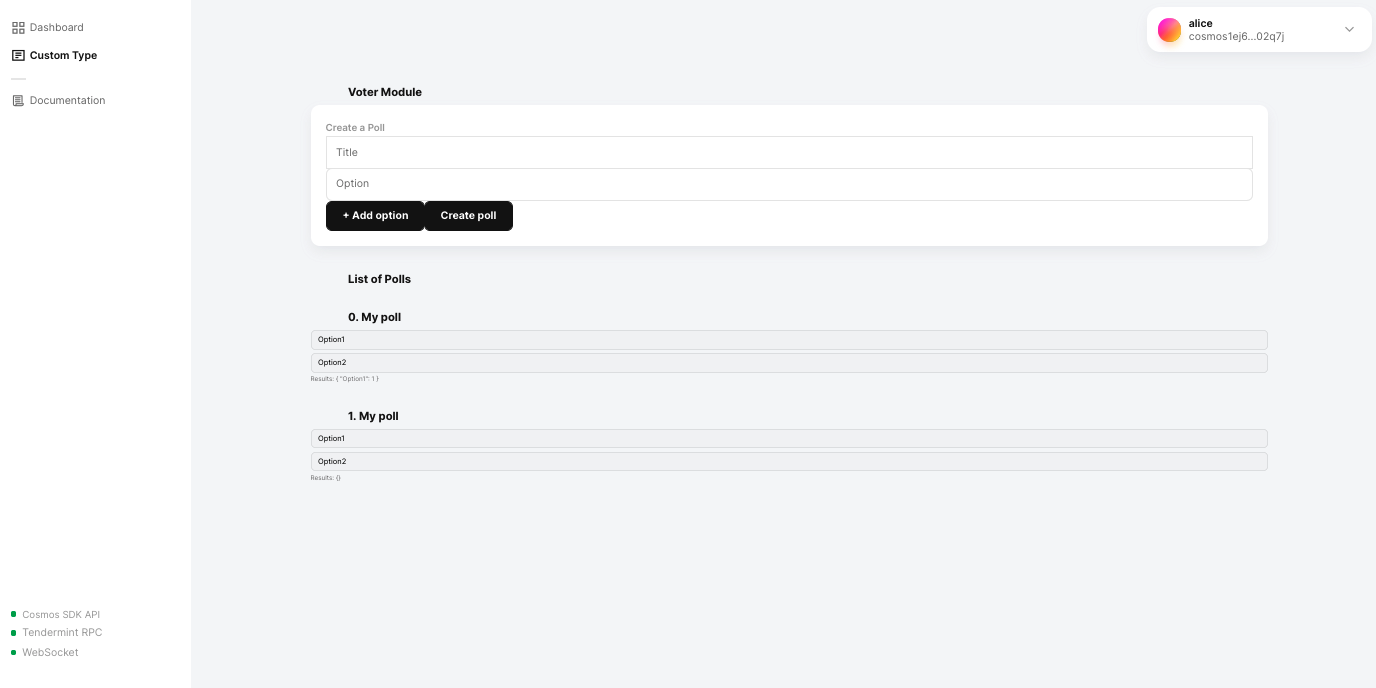
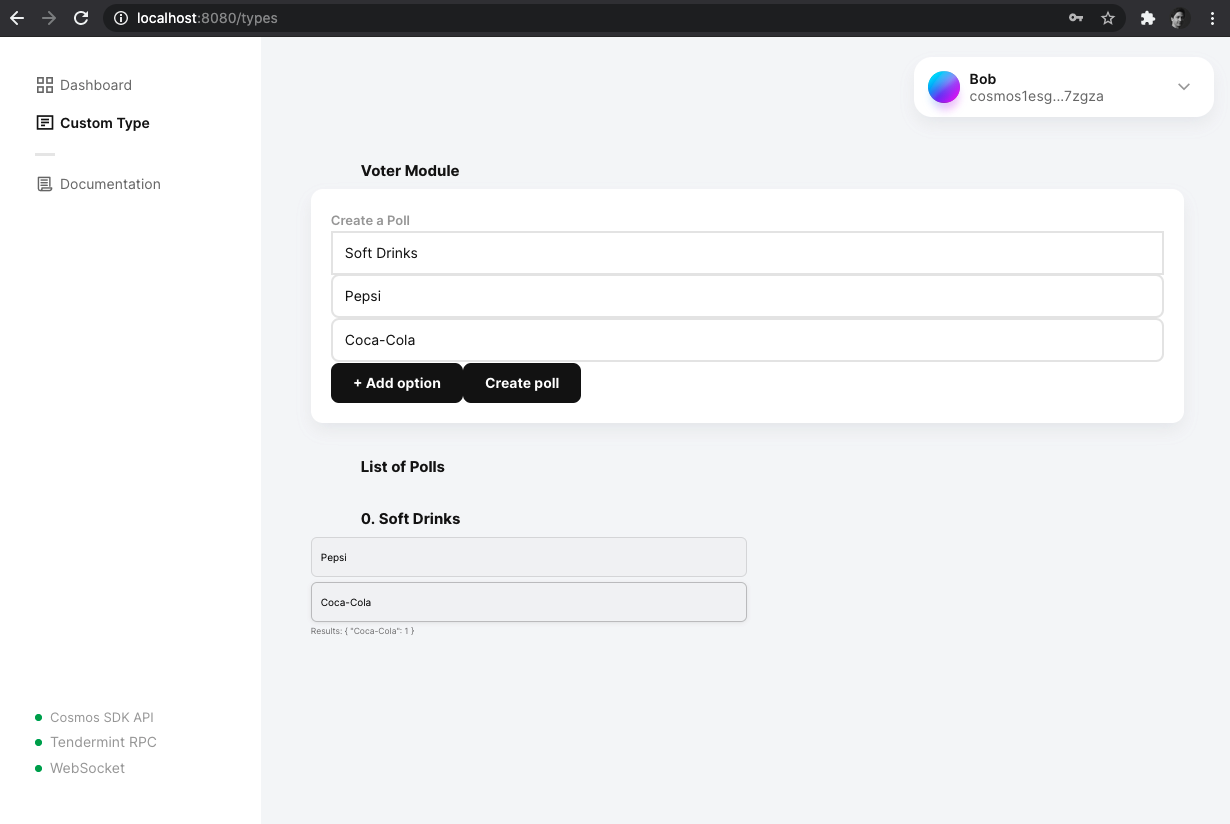
Adapt button style and change first image

diff --git a/voter/voter/vue/src/components/PollList.vue b/voter/voter/vue/src/components/PollList.vue
@@ -4,6 +4,7 @@
     <div v-for="poll in polls" v-bind:key="'poll' + poll.id">
       <SpH3> {{poll.id}}. {{ poll.title }} </SpH3>
       <app-radio-item
+        class="option-radio"
         @click="submit(poll.id, option)"
         v-for="option in poll.options"
         v-bind:key="option"
@@ -14,23 +15,9 @@
   </div>
 </template>
 <style>
-.button {
-  box-shadow: inset 0 0 0 1px rgba(0, 0, 0, 0.1);
-  padding: 0.75rem 1rem;
-  margin-bottom: 0.5rem;
-  border-radius: 6px;
-  user-select: none;
-  cursor: pointer;
-  transition: all 0.1s;
-  font-weight: 500;
-  outline: none;
-  border: none;
-  background: rgba(0, 0, 0, 0.01);
-  width: 100%;
-  font-family: inherit;
-  text-align: left;
-  font-size: 1rem;
-  font-weight: inherit;
+.option-radio > .button {
+  height: 40px;
+  width: 50%;
 }
 </style>
 <script>

diff --git a/voter/index.md b/voter/index.md
@@ -536,6 +536,12 @@ Create a new component `PollList.vue` in `vue/src/components/PollList.vue`.
     </div>
   </div>
 </template>
+<style>
+.option-radio > .button {
+  height: 40px;
+  width: 50%;
+}
+</style>
 ```
 in between `<script></script>` tags below this:
 
